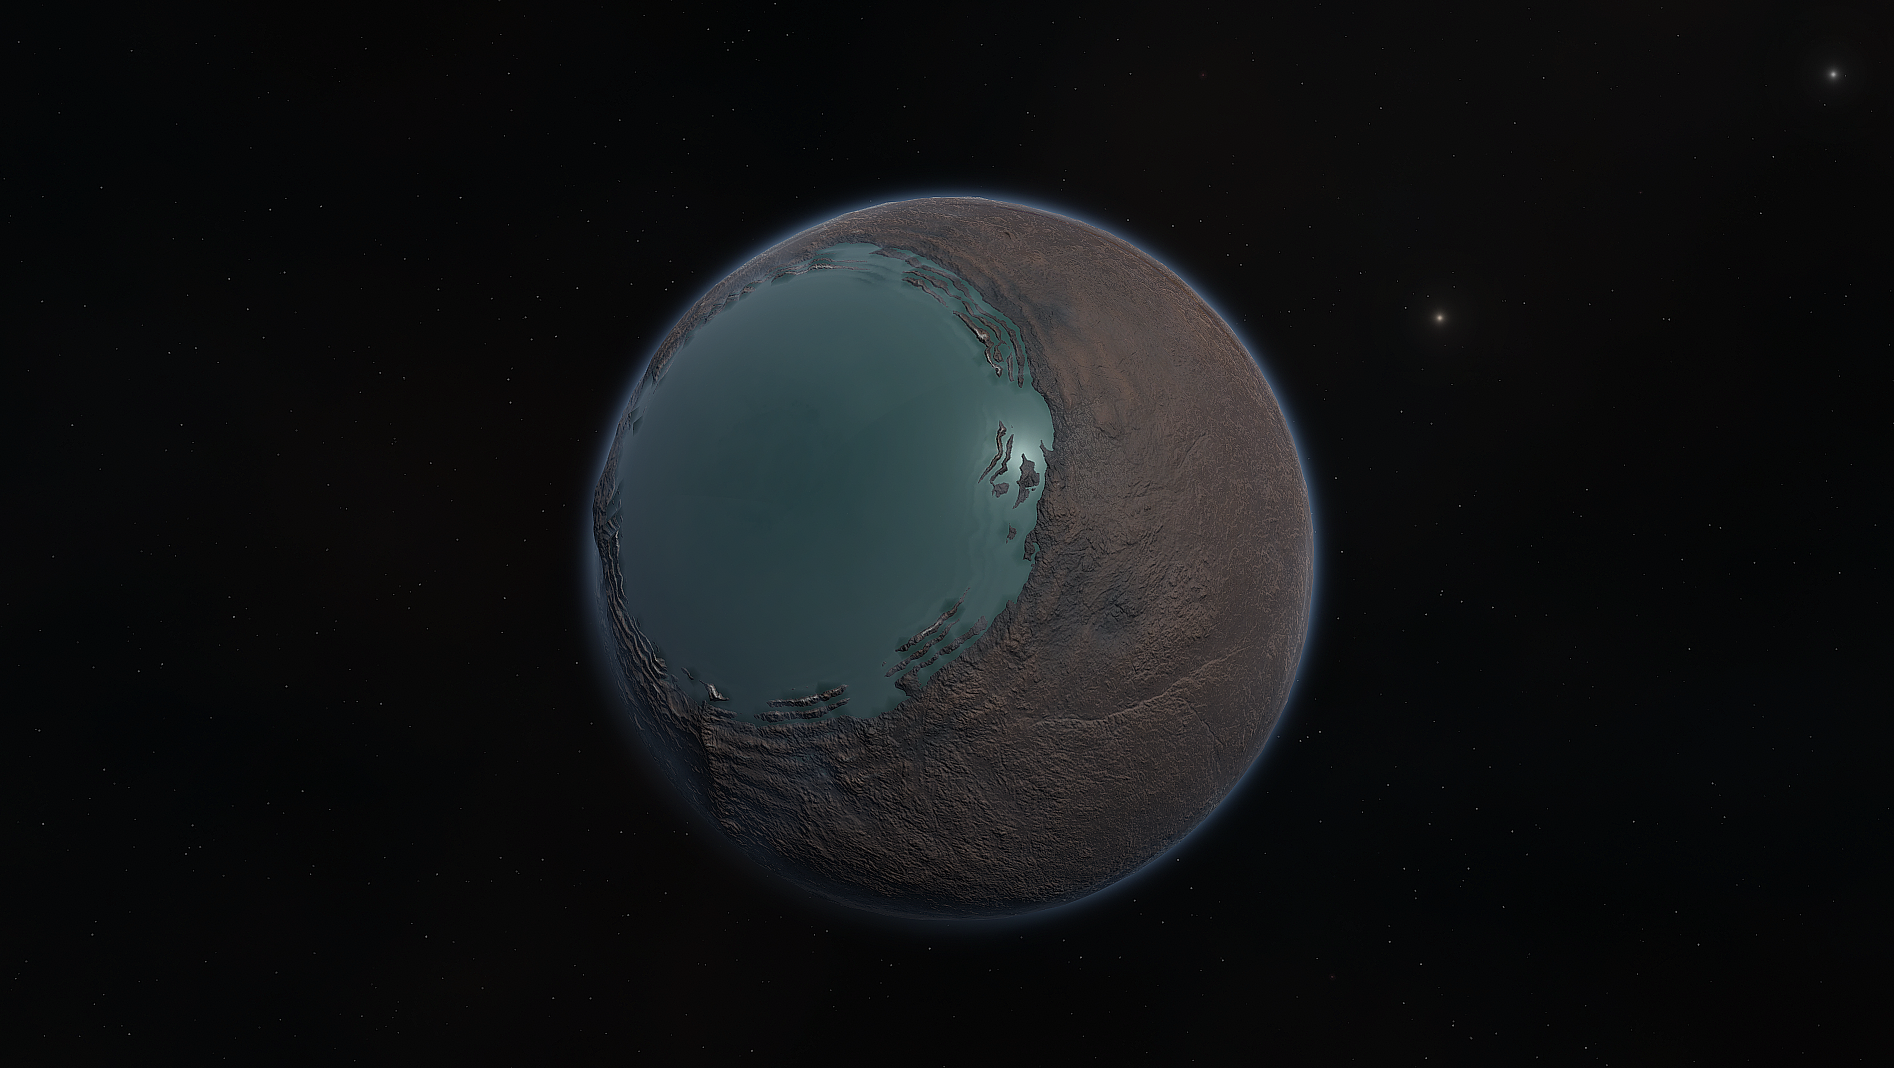
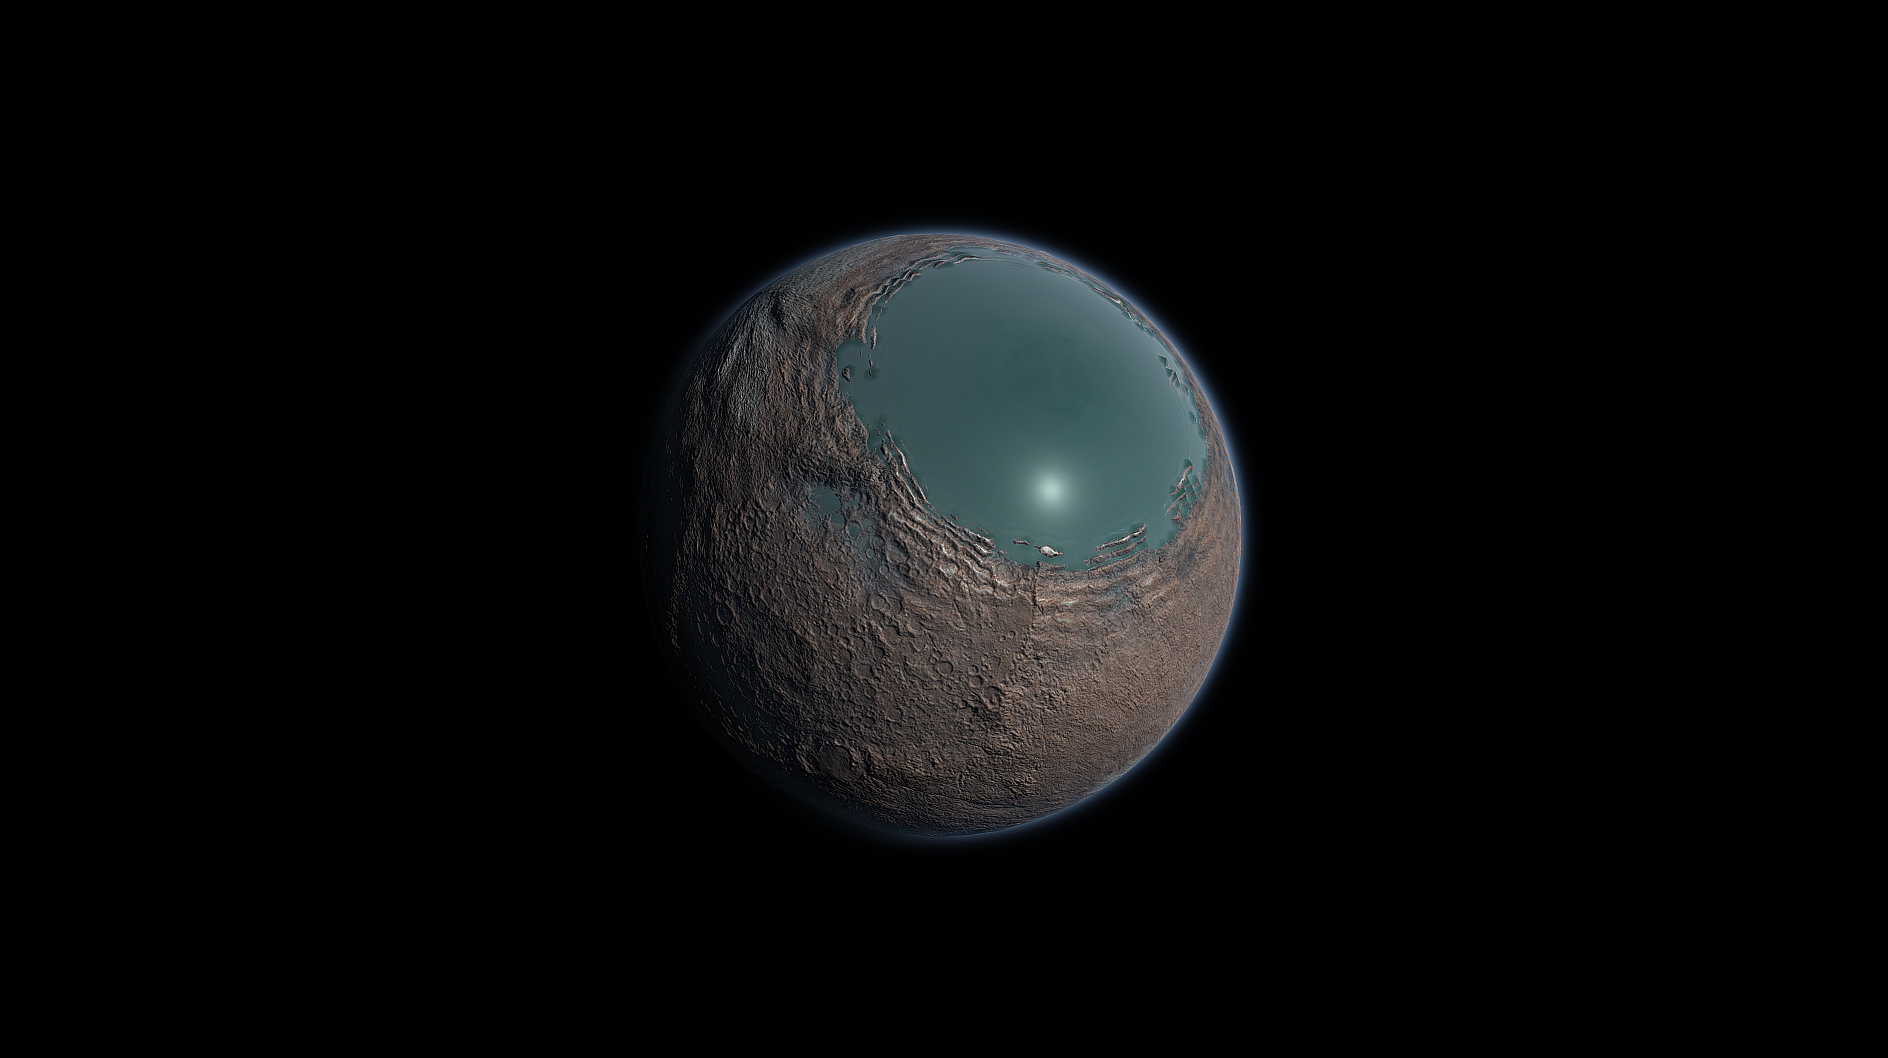
deploy: c4c805e1fb1c4e78c6cf5850a652aec7a13bb097

Changed region(s): [[0.2812, 0.156, 0.7188, 0.8733], [0.75, 0.2807, 0.7812, 0.3119]]

diff --git a/tuun/Noj/index.html b/tuun/Noj/index.html
@@ -1177,6 +1177,24 @@
         
       
       
+        <label class="md-nav__link md-nav__link--active" for="__toc">
+          
+  
+  
+  <span class="md-ellipsis">
+    
+  
+    Noj
+  
+
+    
+  </span>
+  
+  
+
+          <span class="md-nav__icon md-icon"></span>
+        </label>
+      
       <a href="./" class="md-nav__link md-nav__link--active">
         
   
@@ -1193,6 +1211,47 @@
   
 
       </a>
+      
+        
+
+<nav class="md-nav md-nav--secondary" aria-label="Table of contents">
+  
+  
+  
+    
+  
+  
+    <label class="md-nav__title" for="__toc">
+      <span class="md-nav__icon md-icon"></span>
+      Table of contents
+    </label>
+    <ul class="md-nav__list" data-md-component="toc" data-md-scrollfix>
+      
+        <li class="md-nav__item">
+  <a href="#detailed-explanation-of-noj" class="md-nav__link">
+    <span class="md-ellipsis">
+      
+        Detailed Explanation of Noj
+      
+    </span>
+  </a>
+  
+</li>
+      
+        <li class="md-nav__item">
+  <a href="#object-info" class="md-nav__link">
+    <span class="md-ellipsis">
+      
+        Object Info
+      
+    </span>
+  </a>
+  
+</li>
+      
+    </ul>
+  
+</nav>
       
     </li>
   
@@ -1403,6 +1462,36 @@
     
   
   
+    <label class="md-nav__title" for="__toc">
+      <span class="md-nav__icon md-icon"></span>
+      Table of contents
+    </label>
+    <ul class="md-nav__list" data-md-component="toc" data-md-scrollfix>
+      
+        <li class="md-nav__item">
+  <a href="#detailed-explanation-of-noj" class="md-nav__link">
+    <span class="md-ellipsis">
+      
+        Detailed Explanation of Noj
+      
+    </span>
+  </a>
+  
+</li>
+      
+        <li class="md-nav__item">
+  <a href="#object-info" class="md-nav__link">
+    <span class="md-ellipsis">
+      
+        Object Info
+      
+    </span>
+  </a>
+  
+</li>
+      
+    </ul>
+  
 </nav>
                   </div>
                 </div>
@@ -1422,7 +1511,24 @@
 
 
 <h1 id="noj">Noj<a class="headerlink" href="#noj" title="Permanent link">&para;</a></h1>
+<p><img alt="" src="../../assets/Noj.png" /></p>
 <p>Noj is a shepherd moon formed from the accretion of ice and other silly things encountered while orbiting Glumo's ring system. Dust stains the ice to create lovely pops of color on it's surface. Pretty colors aside, scientists can't shut up about the initial readings from Noj, and they want more data, if we can get there.</p>
+<h2 id="detailed-explanation-of-noj">Detailed Explanation of Noj<a class="headerlink" href="#detailed-explanation-of-noj" title="Permanent link">&para;</a></h2>
+<p>Noj is quite the spectacle. Due to many bombardments of it's formation, it has since been a bit lopsided. Besides that, It's worth a visit for its extremely low gravity and the dazzling views of Glumo.</p>
+<h2 id="object-info">Object Info<a class="headerlink" href="#object-info" title="Permanent link">&para;</a></h2>
+<ul>
+<li>Diameter: 11,000 Meters</li>
+<li>Radius: 5,500 Meters</li>
+<li>Orbits: Glumo</li>
+<li>Semi-Major Axis: Roughly 20 thousand Kilometers</li>
+<li>Inclination: 60 degrees</li>
+<li>Eccentricity: none</li>
+<li>Tidally Locked: True</li>
+<li>GeesASL (At Sea Level): 0.005G's</li>
+</ul>
+<h1 id="nojs-surface-and-equator">Noj's Surface and Equator<a class="headerlink" href="#nojs-surface-and-equator" title="Permanent link">&para;</a></h1>
+<p><img alt="" src="../../assets/NojSurf.png" /></p>
+<p><img alt="" src="../../assets/NojEqt.png" /></p>
 <p><em>The Systems of Promised Worlds may change in-between updates. Please notify the Dev team if this is out of date, or make an issue on this repository.</em></p>
 
 

diff --git a/tuun/Merbel/index.html b/tuun/Merbel/index.html
@@ -1533,13 +1533,12 @@
 
 
 <h1 id="merbel">Merbel<a class="headerlink" href="#merbel" title="Permanent link">&para;</a></h1>
-<p><img alt="" src="../../assets/Merbel.png" /></p>
+<p><img alt="" src="../../assets/Merbel2.png" /></p>
 <h2 id="merbel-description">Merbel Description:<a class="headerlink" href="#merbel-description" title="Permanent link">&para;</a></h2>
 <p>Merbel has gone a different aesthetic direction from other celestial bodies. It dons a bold sea of methane and ammonia between its two massive ice caps. The dizzying rotation speed and low inclination gets the equator a lot of Tuun's attention. Merbel's orbital plane is completely off from Glumo's equator, suggesting it was once a planet itself that got captured by Glumo. Other moons may have been destabilized due to it's influence, possibly creating Glumo's iconic rings!</p>
 <p><img alt="" src="../../assets/MerbelSpace.png" /></p>
 <h2 id="detailed-explanation-of-merbel">Detailed Explanation of Merbel<a class="headerlink" href="#detailed-explanation-of-merbel" title="Permanent link">&para;</a></h2>
 <p>Merbel strikes many unique geographical formations, due to it's mostly methane ice crust, and wind-chilled deserts. The chilling winds are so repetitive on Merbel that they have formed Ice-streaks across the surface, and have since formed everlasting ice-caps.</p>
-<p><img alt="" src="../../assets/MerbelSpace2.png" /></p>
 <h2 id="object-info">Object Info<a class="headerlink" href="#object-info" title="Permanent link">&para;</a></h2>
 <ul>
 <li>Diameter: 812 Kilometers</li>
@@ -1551,15 +1550,14 @@
 <li>Rotational Period (In Seconds): 28,800</li>
 <li>GeesASL (At Sea Level): 0.46G's</li>
 </ul>
-<h1 id="merbels-poles">Merbel's Poles<a class="headerlink" href="#merbels-poles" title="Permanent link">&para;</a></h1>
-<p>Merbel also features very calm and faint aurora on it's poles. It's quite the place for an outpost as Glumo rises and sets in the distance, as well as seeing the rest of the Tuun planets from here!</p>
-<p><img alt="" src="../../assets/MerbelAurora.png" /></p>
-<p><img alt="" src="../../assets/MerbelPoles.png" /></p>
+<h1 id="merbels-surface-poles">Merbel's Surface &amp; Poles<a class="headerlink" href="#merbels-surface-poles" title="Permanent link">&para;</a></h1>
+<p>Merbel is quite the place for an outpost as Glumo rises and sets in the distance, as well as seeing the rest of the Tuun planets from here!</p>
+<p><img alt="" src="../../assets/MerbelSurf.png" /></p>
+<p><img alt="" src="../../assets/MerbelScat.png" /></p>
 <h1 id="merbels-oceans">Merbel's Oceans<a class="headerlink" href="#merbels-oceans" title="Permanent link">&para;</a></h1>
 <p>Merbel also featuers a striking equatorial nearly frozen ocean, which near the coasts will freeze methane bubbles trapped in icebergs.</p>
 <p><img alt="" src="../../assets/MerbelOcean.png" /></p>
 <p><img alt="" src="../../assets/MerbelSurfOcean.png" /></p>
-<p><img alt="" src="../../assets/MerbelSurf.png" /></p>
 <h2 id="general-tips-for-merbel">General Tips for Merbel<a class="headerlink" href="#general-tips-for-merbel" title="Permanent link">&para;</a></h2>
 <p>If you plan to visit merbel, make sure to pack hiking boots with spikes, as the terrain is quite slippery, and basically always frozen in the cold!</p>
 <p><em>The Systems of Promised Worlds may change in-between updates. Please notify the Dev team if this is out of date, or make an issue on this repository.</em></p>

diff --git a/debdeb/Ovin/index.html b/debdeb/Ovin/index.html
@@ -1536,7 +1536,7 @@
 <p><img alt="" src="../../assets/Ovin.png" /></p>
 <p>A choked atmosphere, a shattered surface and gravity that will tear you to shreds. Ovin is terrifying. We don't know how a planet like it could form. Everything about it defies our understanding of terrestrial planets. Its discovery gave many scientists nightmares for weeks afterwards.</p>
 <h2 id="detailed-explanation-of-ovin">Detailed Explanation of Ovin:<a class="headerlink" href="#detailed-explanation-of-ovin" title="Permanent link">&para;</a></h2>
-<p>Ovin spells disaster for any lander or ship that manages to skim above it's super thick Green and Yellow atmosphere. Once you're in, there is very little chance you're escaping. With nearly 4x Kerbin's graity, Ovin has been sucking up ships since Kerbals first set out for the stars. It's probably a really good idea to pack a ship/lander with lots of staging, lots of delta v, and a massive TWR. Otherwise, you may have to send a rescue mission.</p>
+<p>Ovin spells disaster for any lander or ship that manages to skim above it's super thick Green and Yellow atmosphere. Once you're in, there is very little chance you're escaping. With nearly 4x Kerbin's graity, Ovin has been sucking up ships since Kerbals first set out for the stars. It's probably a really good idea to pack a ship/lander with lots of staging, lots of delta v, and a massive TWR. Otherwise, you may have to send a rescue mission. With major flares coming from the young star that is Debdeb, any planet with a significant magnetic field will have Aurora. Such here, Ovin has Polar Aurora. No doubt about it, considering it's massive gravitational field.</p>
 <h2 id="object-info">Object Info<a class="headerlink" href="#object-info" title="Permanent link">&para;</a></h2>
 <ul>
 <li>Diameter: 1,920 Kilometers</li>
@@ -1553,8 +1553,6 @@
 <img alt="" src="../../assets/OvinShip.png" /></p>
 <p>Ovin's Rings
 <img alt="" src="../../assets/OvinRings.png" /></p>
-<p>With major flares coming from the young star that is Debdeb, any planet with a significant magnetic field will have Aurora. Such here, Ovin has Polar Aurora. No doubt about it, considering it's massive gravitational field.</p>
-<p><img alt="" src="../../assets/OvinAurora.gif" /></p>
 <p><em>The Systems of Promised Worlds may change in-between updates. Please notify the Dev team if this is out of date, or make an issue on this repository.</em></p>
 
 

diff --git a/Tuun System/index.html b/Tuun System/index.html
@@ -1458,14 +1458,13 @@
 </ul>
 <p><img alt="" src="../assets/Glumo.png" /></p>
 <ul>
-<li>
-<p>Noj - Noj is a shepherd moon formed from the accretion of ice and other silly things encountered while orbiting Glumo's ring system. Dust stains the ice to create lovely pops of color on it's surface. Pretty colors aside, scientists can't shut up about the initial readings from Noj, and they want more data, if we can get there.</p>
-</li>
-<li>
-<p>Merbel - Merbel has gone a different aesthetic direction from other celestial bodies. It dons a bold sea of methane and ammonia between its two massive ice caps. The dizzying rotation speed and low inclination gets the equator a lot of Tuun's attention. Merbel's orbital plane is completely off from Glumo's equator, suggesting it was once a planet itself that got captured by Glumo. Other moons may have been destabilized, possibly creating Glumo's iconic rings!</p>
-</li>
+<li>Noj - Noj is a shepherd moon formed from the accretion of ice and other silly things encountered while orbiting Glumo's ring system. Dust stains the ice to create lovely pops of color on it's surface. Pretty colors aside, scientists can't shut up about the initial readings from Noj, and they want more data, if we can get there.</li>
 </ul>
-<p><img alt="" src="../assets/Merbel.png" /></p>
+<p><img alt="" src="../assets/Noj.png" /></p>
+<ul>
+<li>Merbel - Merbel has gone a different aesthetic direction from other celestial bodies. It dons a bold sea of methane and ammonia between its two massive ice caps. The dizzying rotation speed and low inclination gets the equator a lot of Tuun's attention. Merbel's orbital plane is completely off from Glumo's equator, suggesting it was once a planet itself that got captured by Glumo. Other moons may have been destabilized, possibly creating Glumo's iconic rings!</li>
+</ul>
+<p><img alt="" src="../assets/Merbel2.png" /></p>
 <ul>
 <li>Skut - Skut is the funkiest chunk of rock around! See how it looks like two asteroids fused together? Well we think that's how it got its unique arrowhead shape. Skut's shape isn't the only oddity though. Its wildly eccentric orbit sees it pass extremely close to Tuun and then back out into the farther reaches of the system. Maybe it can't decide where to set the thermostat.</li>
 </ul>

diff --git a/tuun/Glumo/index.html b/tuun/Glumo/index.html
@@ -1515,7 +1515,7 @@
 <p>Groovy Glumo is truly one of a kind. Between the iconic rings and colorful satellites, there's no place quite as stunning. Uniquely, it rolls on its side with a 63° axial tilt. Its gaseous outer layer, containing water, ammonia and ammonium hydrosulfide ices, interacts with the light in different ways per season, causing extreme color changes. As a result, astronomers have on numerous occasions mistaken it for a completely different planet!</p>
 <h2 id="detailed-explanation-of-glumo">Detailed Explanation of Glumo:<a class="headerlink" href="#detailed-explanation-of-glumo" title="Permanent link">&para;</a></h2>
 <p>Glumo Frequents a still, calm, but very interesting gaseous state. It's been the only observed Gas Giant to Kerbals to have seasonal weather changes. That also includes some swaying colors as mentioned above. Aurora are also a frequent occurence on Glumo and it's moons. Meaning, you may not see them all the time.</p>
-<p><img alt="" src="../../assets/GlumoSeason.png" /></p>
+<p>(Glumo Seasons are currently WIP, however they are in our development build, which is not public.)</p>
 <p>Glumo currently features two moons:</p>
 <ul>
 <li>
